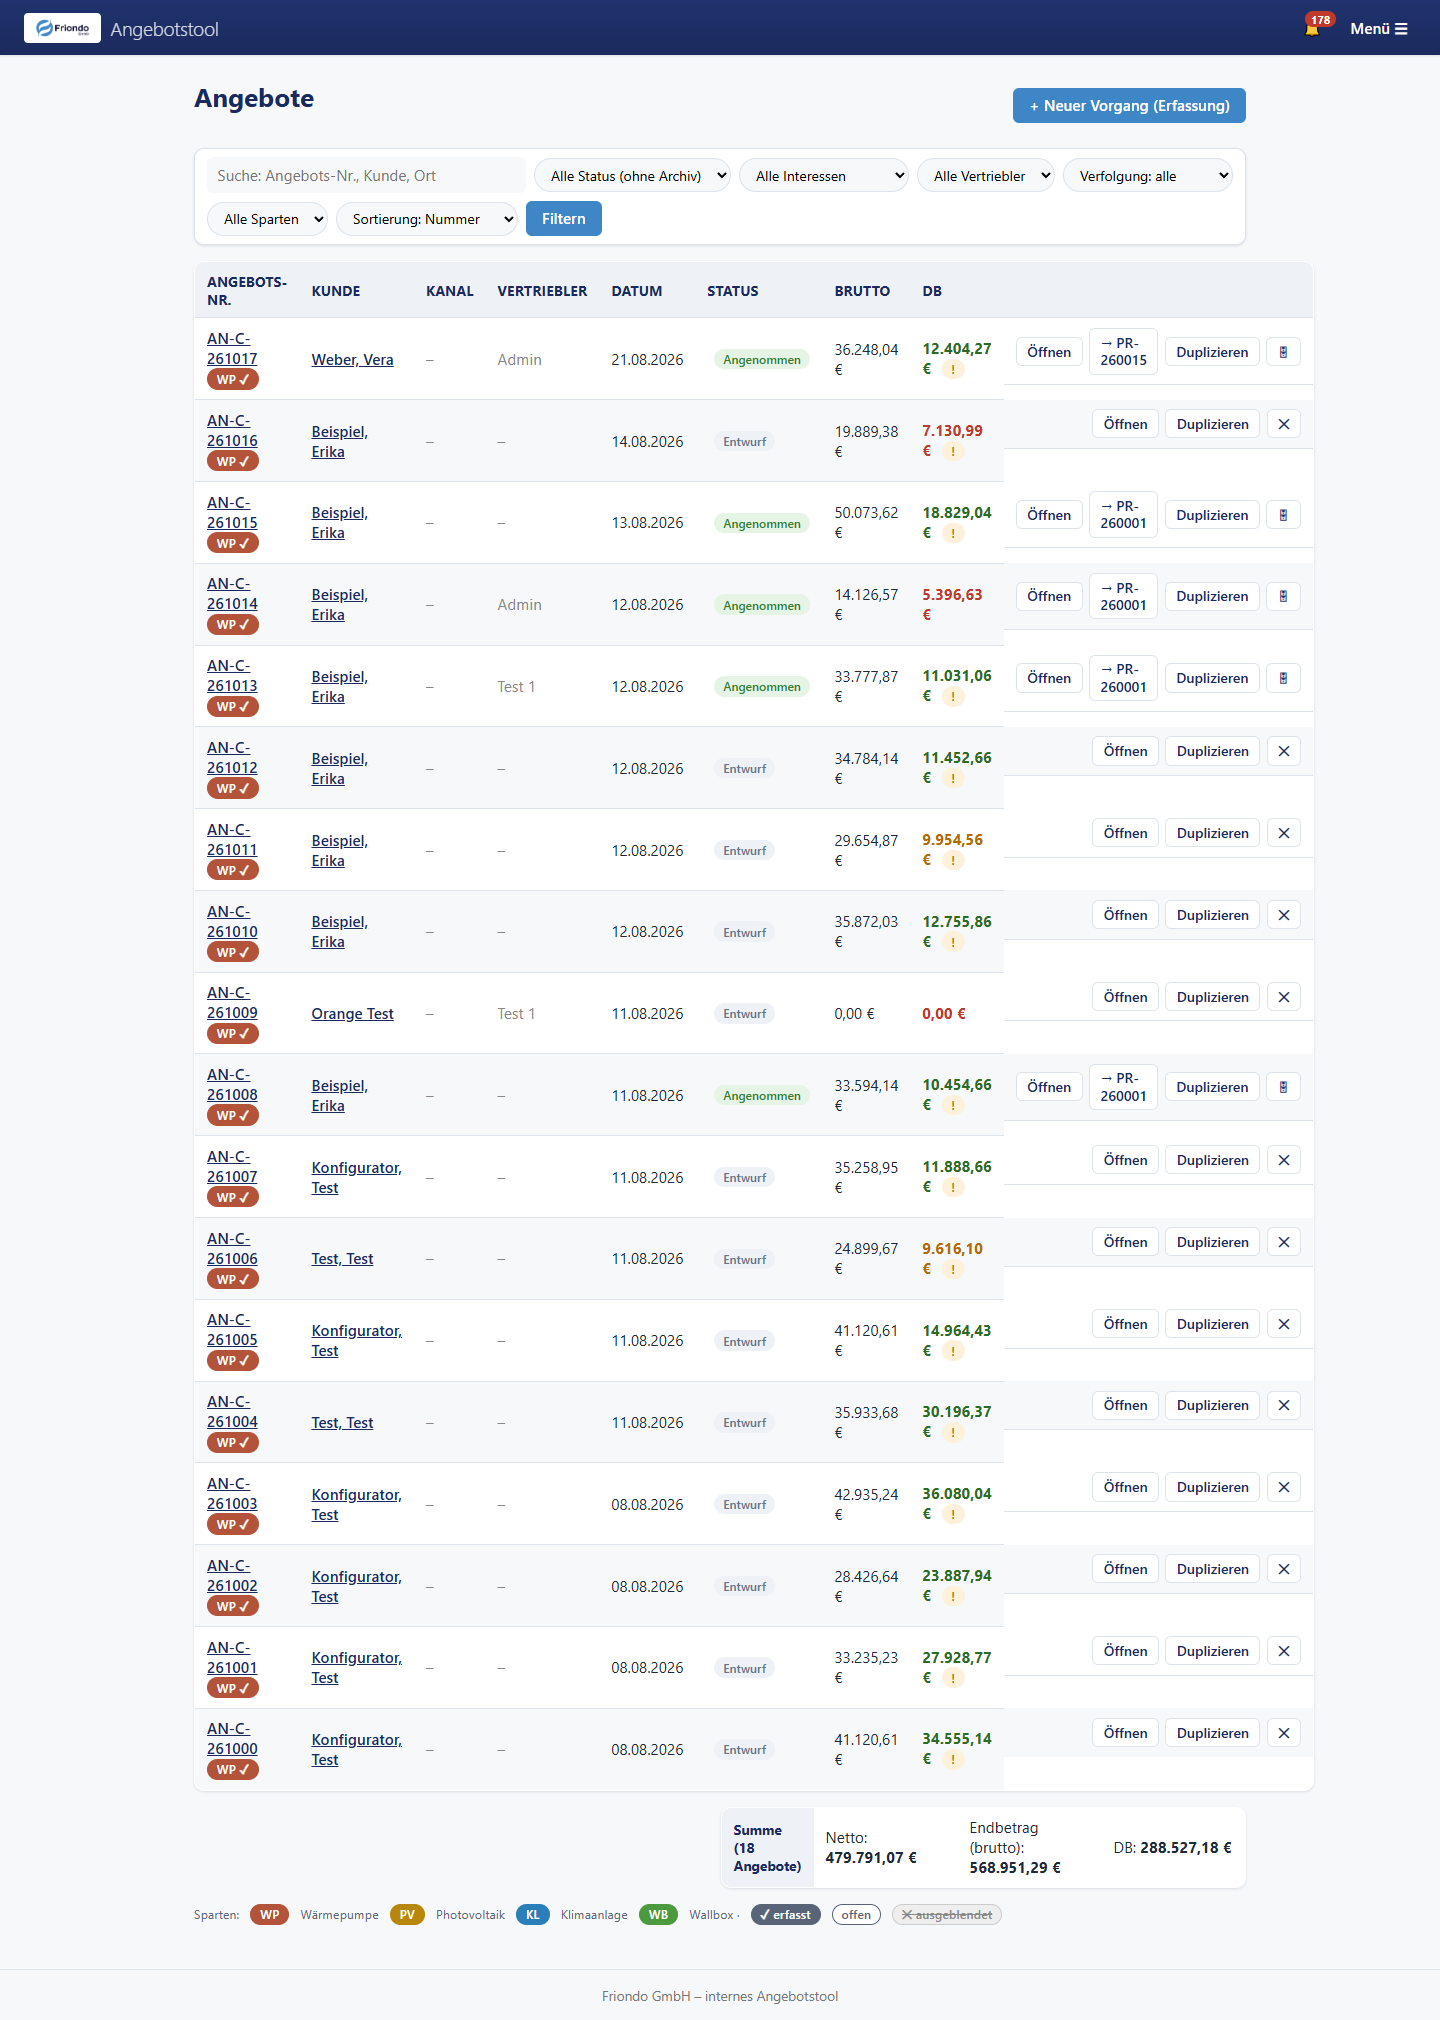
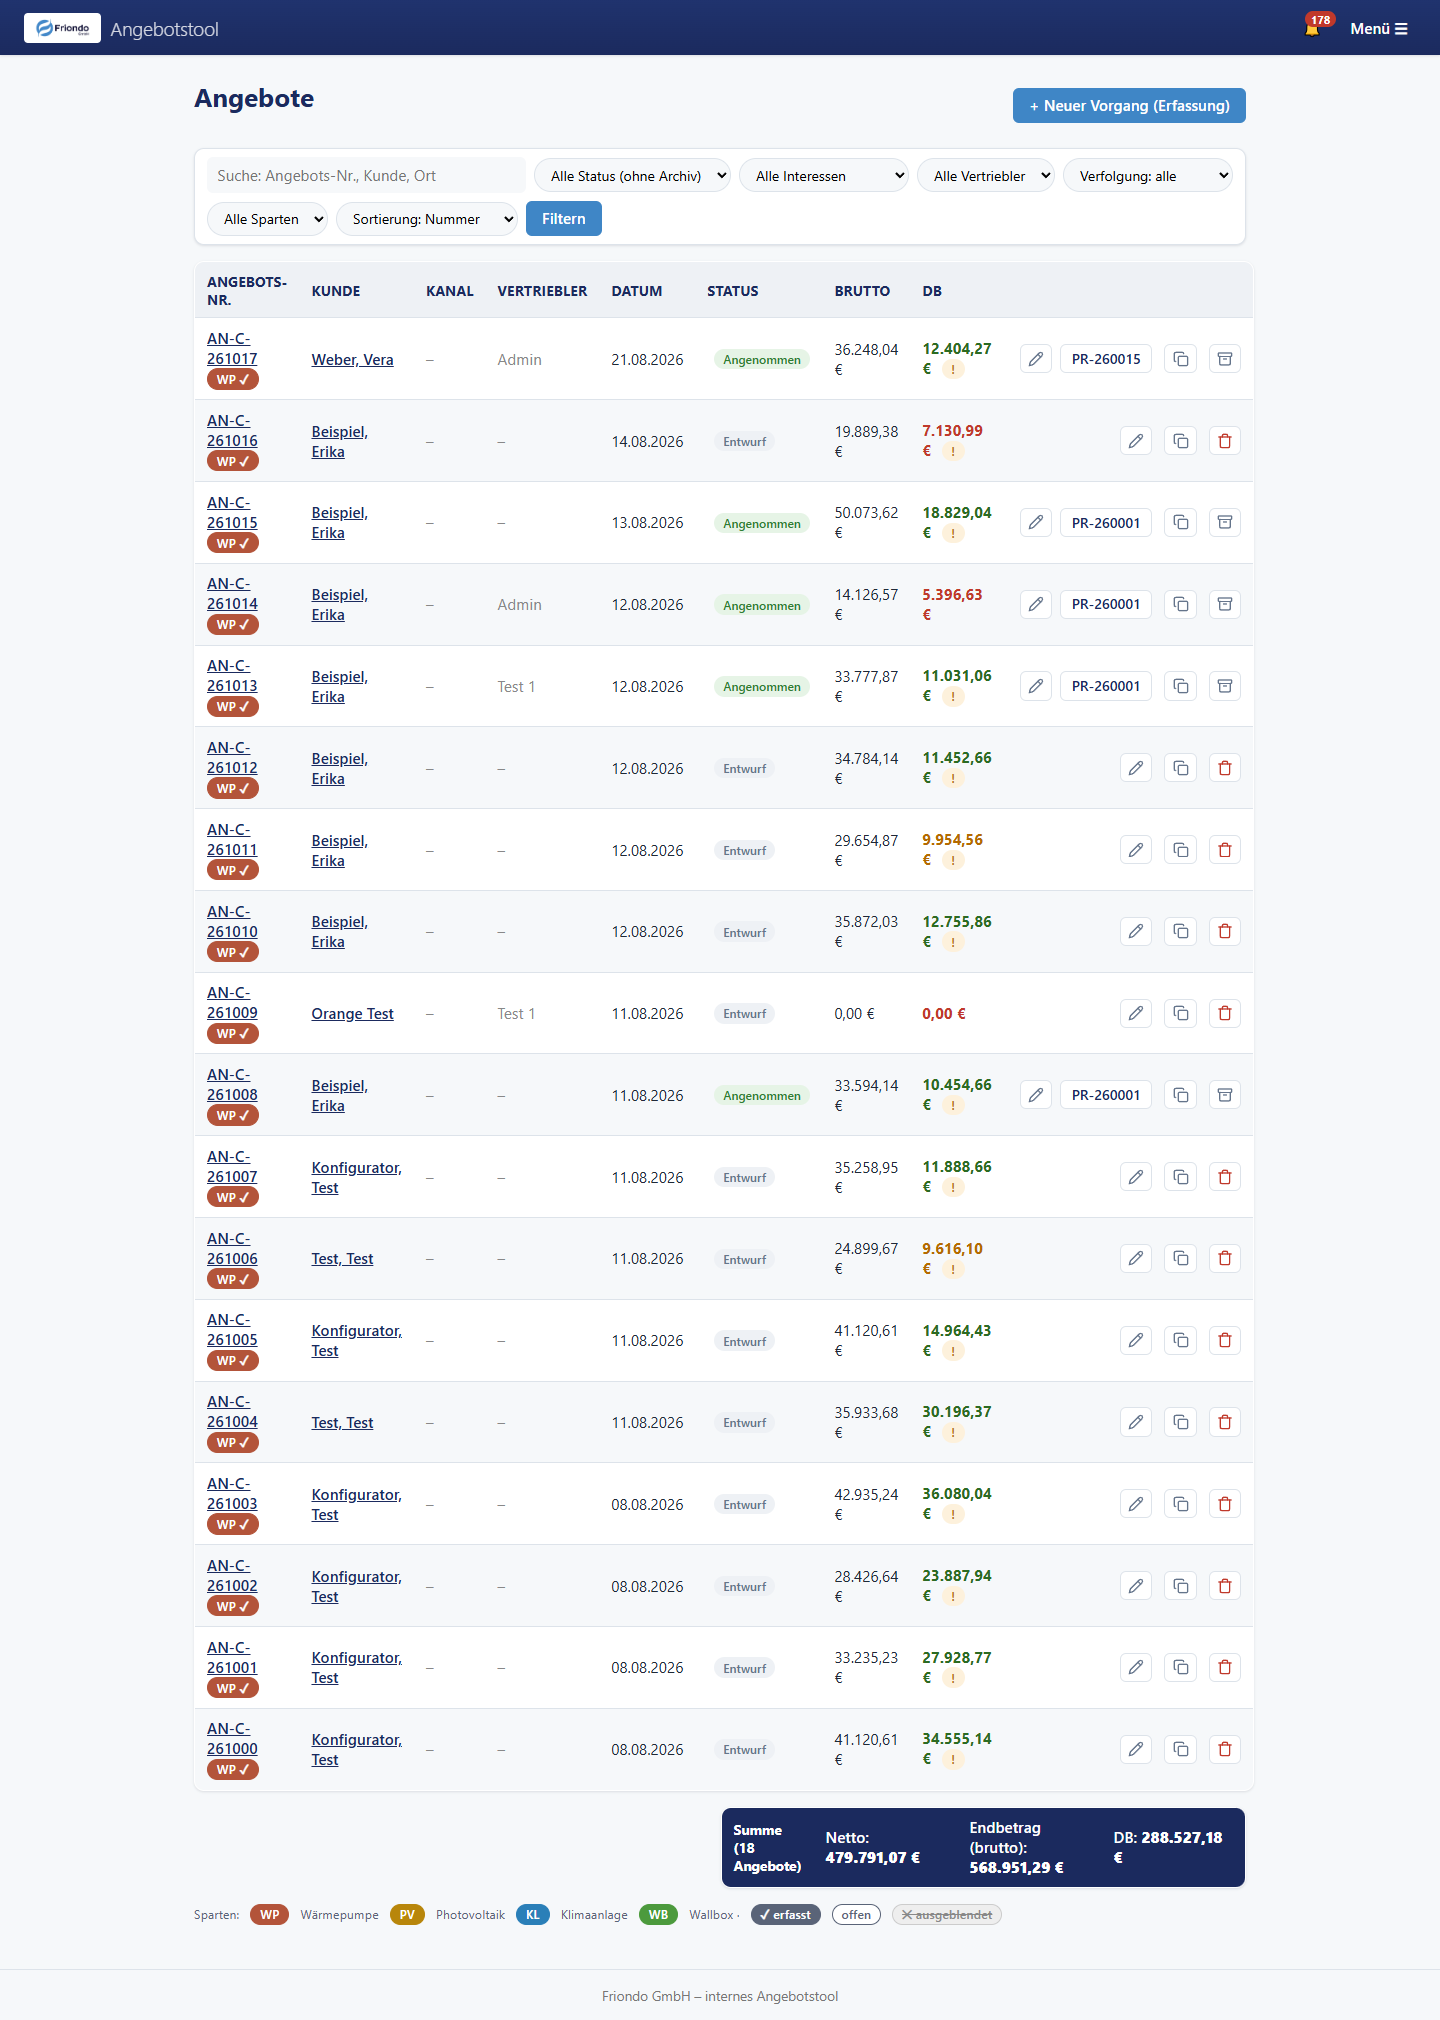
PLAN_V12 Phase 70: Portal, Startseite und Listen
Portal-Karten mit Hover-Lift und einheitlichen Demo-Badges (CSS);
Startseiten-Shortcuts und Auf-einen-Blick-Kacheln mit lokalen
SVG-Icons, Zahl gross, Beschriftung klein; dringliche Zahlen (fällige
Wiedervorlagen, Rabatt-Freigaben, SLA rot) über die Klasse dringend
statt Inline-Farben. Angebotsliste: Status über das zentrale
status_badge-Makro, Wiedervorlage- und Mail-Symbole als SVG,
Aktionsspalte als kompakte Icon-Buttons mit Tooltip (Öffnen/PDF,
Duplizieren, Löschen rot, Archivieren/Zurückholen), Summenzeile dunkel
abgesetzt, Leerzustand im neuen Stil. Erfassungsliste: Status-Badges,
Warn-/Notiz-Symbole als SVG, Icon-Aktionen. Dazu ein echter
Bestands-Bugfix: td.aktionen fiel durch display:flex aus dem
Tabellenlayout und stand seit v6 versetzt neben der Tabelle - jetzt
table-cell mit rechtsbündigen Inline-Buttons. Tabellen scrollen unter
1180 px intern. Suite 117/117.

diff --git a/app/templates/angebote/liste.html b/app/templates/angebote/liste.html
@@ -1,6 +1,8 @@
 {% extends "base.html" %}
 {% import "_interesse.html" as interesse_ui %}
 {% import "_sparten.html" as sparten_ui %}
+{% from "_komponenten.html" import status_badge %}
+{% from "_symbole.html" import symbol %}
 
 {% block titel %}Angebote – Friondo Angebotstool{% endblock %}
 
@@ -92,7 +94,7 @@
                 {% if mail_zaehler.get(a.id) %}
                     <a class="mail-abzeichen" href="/angebote/{{ a.id }}/mails"
                        title="{{ mail_zaehler[a.id] }} Antwort{{ 'en' if mail_zaehler[a.id] != 1 }} zur Angebots-Mail">
-                        ✉ {{ mail_zaehler[a.id] }}</a>
+                        {{ symbol('brief') }} {{ mail_zaehler[a.id] }}</a>
                 {% endif %}
             </td>
             <td><a href="/vorgaenge/zu-angebot/{{ a.id }}" title="Vorgangsakte öffnen">{{ kunden[a.kunde_id].anzeige_name if a.kunde_id in kunden else '?' }}</a>
@@ -101,11 +103,11 @@
             <td class="dezent">{% set vid = angebot_vertriebler.get(a.id) %}{{ vertriebler[vid].name if vid in vertriebler else '–' }}</td>
             <td>{{ a.datum.strftime('%d.%m.%Y') }}</td>
             {% set v = vorgaenge_map.get(a.vorgang_id) %}
-            <td><span class="abzeichen status-{{ a.status | lower | replace(' ', '-') | replace('(', '') | replace(')', '') }}">{{ a.status }}</span>
+            <td>{{ status_badge(a.status) }}
                 {% if v and v.verfolgung_ampel %}<span title="Verfolgung des Vorgangs: {{ v.verfolgung_ampel }}">{{ {'heiss': '🔥', 'warm': '🌤', 'kalt': '❄'}[v.verfolgung_ampel] }}</span>{% endif %}
                 {% if v and v.wiedervorlage_am %}
-                    <br><span class="{{ 'wv-faellig' if v.wiedervorlage_am <= heute else 'dezent' }}"
-                          title="Wiedervorlage des Vorgangs">↻ {{ v.wiedervorlage_am.strftime('%d.%m.%Y') }}</span>
+                    <br><span class="wv-datum {{ 'wv-faellig' if v.wiedervorlage_am <= heute }}"
+                          title="Wiedervorlage des Vorgangs">{{ symbol('wiedervorlage') }} {{ v.wiedervorlage_am.strftime('%d.%m.%Y') }}</span>
                 {% endif %}</td>
             <td class="rechts">{{ a.summen().brutto | euro }}</td>
             {% if not kalk_sichtbar %}
@@ -122,34 +124,38 @@
             {% endif %}
             <td class="aktionen">
                 {% if nur_lesend %}
-                    <a class="knopf klein zweitrangig" href="/angebote/{{ a.id }}/pdf" target="_blank">PDF</a>
+                    <a class="knopf symbol" href="/angebote/{{ a.id }}/pdf" target="_blank"
+                       title="Angebots-PDF anzeigen">{{ symbol('pdf') }}</a>
                 {% else %}
-                    <a class="knopf klein zweitrangig" href="/angebote/{{ a.id }}">Öffnen</a>
+                    <a class="knopf symbol" href="/angebote/{{ a.id }}"
+                       title="Angebot öffnen">{{ symbol('stift') }}</a>
                 {% endif %}
                 {% if projekt_modul_ok %}
                     {% if a.id in projekt_je_angebot %}
                         <a class="knopf klein zweitrangig" href="/projektierung/projekt/{{ projekt_je_angebot[a.id].id }}"
-                           title="Zur Projektakte">→ {{ projekt_je_angebot[a.id].nummer }}</a>
+                           title="Zur Projektakte">{{ projekt_je_angebot[a.id].nummer }}</a>
                     {% elif a.status == 'Angenommen' %}
                         <a class="knopf klein" href="/projektierung/angebot/{{ a.id }}/projekt"
                            title="Projekt/Gewerk aus diesem Auftrag anlegen">→ Projekt</a>
                     {% endif %}
                 {% endif %}
                 {% if not a.extern %}
-                <form method="post" action="/angebote/{{ a.id }}/duplizieren">
-                    <button class="knopf klein zweitrangig" type="submit">Duplizieren</button>
+                <form method="post" action="/angebote/{{ a.id }}/duplizieren" style="display:inline">
+                    <button class="knopf symbol" type="submit"
+                            title="Angebot duplizieren">{{ symbol('kopie') }}</button>
                 </form>
                 {% endif %}
                 {% if a.status == 'Entwurf' %}
-                <form method="post" action="/angebote/{{ a.id }}/loeschen"
+                <form method="post" action="/angebote/{{ a.id }}/loeschen" style="display:inline"
                       onsubmit="return confirm('Entwurf {{ a.nummer }} wirklich löschen?');">
-                    <button class="knopf klein zweitrangig" type="submit" title="Entwurf löschen">✕</button>
+                    <button class="knopf symbol gefaehrlich" type="submit"
+                            title="Entwurf löschen">{{ symbol('muell') }}</button>
                 </form>
                 {% else %}
-                <form method="post" action="/angebote/{{ a.id }}/archivieren">
-                    <button class="knopf klein zweitrangig" type="submit"
+                <form method="post" action="/angebote/{{ a.id }}/archivieren" style="display:inline">
+                    <button class="knopf symbol" type="submit"
                             title="{{ 'Aus dem Archiv zurückholen' if a.archiviert else 'Archivieren' }}">
-                        {{ '↩' if a.archiviert else '🗄' }}</button>
+                        {{ symbol('wiederherstellen' if a.archiviert else 'archiv') }}</button>
                 </form>
                 {% endif %}
             </td>
@@ -158,7 +164,7 @@
     </tbody>
 </table>
 <table class="tabelle zusammenfassung summenblock">
-    <tr>
+    <tr class="summenzeile">
         <th>Summe ({{ angebote | length }} Angebot{{ 'e' if angebote | length != 1 }})</th>
         <td class="rechts">Netto: <strong>{{ summen_gesamt.netto | euro }}</strong></td>
         <td class="rechts">Endbetrag (brutto): <strong>{{ summen_gesamt.endbetrag | euro }}</strong></td>
@@ -171,7 +177,8 @@ sind dort unbekannt und bleiben außen vor.</p>
 {% endif %}
 {{ sparten_ui.legende() }}
 {% else %}
-<p class="hinweis">Noch keine Angebote. Über eine <a href="/erfassung/neu">neue Erfassung</a>
-oder als manuelles Angebot über einen Kunden starten.</p>
+<div class="leer-zustand">Noch keine Angebote – über eine neue Erfassung
+oder als manuelles Angebot über einen Kunden starten.
+    <br><a class="knopf klein" href="/erfassung/neu">Neue Erfassung starten</a></div>
 {% endif %}
 {% endblock %}

diff --git a/app/templates/erfassungen/liste.html b/app/templates/erfassungen/liste.html
@@ -1,4 +1,6 @@
 {% extends "base.html" %}
+{% from "_komponenten.html" import status_badge %}
+{% from "_symbole.html" import symbol %}
 {% import "_interesse.html" as interesse_ui %}
 {% import "_sparten.html" as sparten_ui %}
 
@@ -63,10 +65,10 @@
                     <span class="abzeichen ep" title="Freitext wurde geändert, während der Vorgang bereits lief – Details im Änderungsprotokoll.">Freitext geändert</span>
                 {% endif %}
                 {% if e.id in fachhinweis_ids %}
-                    <span title="{{ fachhinweis_ids[e.id] }}">⚠</span>
+                    <span class="wv-faellig" title="{{ fachhinweis_ids[e.id] }}">{{ symbol('warnung') }}</span>
                 {% endif %}
                 {% if e.id in bemerkungen %}
-                    <span class="bemerkung-symbol" title="{{ bemerkungen[e.id] | truncate(300) }}">📝</span>
+                    <span class="bemerkung-symbol dezent" title="{{ bemerkungen[e.id] | truncate(300) }}">{{ symbol('notiz') }}</span>
                 {% endif %}
             </td>
             <td>{{ benutzer_map[e.benutzer_id].name if e.benutzer_id in benutzer_map else '?' }}</td>
@@ -77,15 +79,16 @@
                     <span class="ampel gruen">● Konfigurierbar</span>
                 {% endif %}
             </td>
-            <td><span class="abzeichen">{{ e.status }}</span></td>
+            <td>{{ status_badge(e.status) }}</td>
             <td>{% if e.angebot_id and e.angebot_id in angebote %}
                 <a href="/angebote/{{ e.angebot_id }}">{% if angebote[e.angebot_id].extern %}<span class="abzeichen">TAIFUN</span> {{ angebote[e.angebot_id].taifun_nummer }}{% else %}{{ angebote[e.angebot_id].nummer }}{% endif %}</a>
             {% endif %}</td>
             <td class="aktionen">
-                <a class="knopf klein zweitrangig" href="/erfassungen/{{ e.id }}">Öffnen</a>
+                <a class="knopf symbol" href="/erfassungen/{{ e.id }}"
+                   title="Erfassung öffnen">{{ symbol('stift') }}</a>
                 {% if e.status == 'In TAIFUN zu schreiben' %}
                     <a class="knopf klein" href="/erfassungen/{{ e.id }}/protokoll.pdf"
-                       target="_blank" title="Übergabezettel für TAIFUN">Protokoll-PDF</a>
+                       target="_blank" title="Übergabezettel für TAIFUN">{{ symbol('pdf') }} Protokoll</a>
                 {% endif %}
             </td>
         </tr>

diff --git a/app/templates/_angebotstool_kacheln.html b/app/templates/_angebotstool_kacheln.html
@@ -1,9 +1,12 @@
 {# Angebotstool-Kacheln (Phase 19, seit v9 auch im mittleren Startseiten-
-   Bereich eingebunden): drei Shortcuts + klickbare Statistik-Kacheln. #}
+   Bereich eingebunden): drei Shortcuts + klickbare Statistik-Kacheln.
+   v14 (PLAN_V12, Phase 70): Karten mit Icon, Zahl groß, Beschriftung
+   klein; fällige Zahlen rot über die Klasse "dringend". #}
+{% from "_symbole.html" import symbol %}
 <div class="kacheln start-shortcuts">
-    <a class="kachel" href="/leads">Leads VOT</a>
-    <a class="kachel" href="/erfassungen">Erfassungen</a>
-    <a class="kachel" href="/angebote">Angebote</a>
+    <a class="kachel" href="/leads"><span class="kachel-icon">{{ symbol('telefon') }}</span>Leads VOT</a>
+    <a class="kachel" href="/erfassungen"><span class="kachel-icon">{{ symbol('stift') }}</span>Erfassungen</a>
+    <a class="kachel" href="/angebote"><span class="kachel-icon">{{ symbol('pdf') }}</span>Angebote</a>
 </div>
 
 <h2>Auf einen Blick</h2>
@@ -27,15 +30,16 @@
     {% endif %}
     {% if rabatt_freigaben %}
     <a class="kachel stat" href="/angebote/rabatt-freigaben">
-        <span class="stat-zahl" style="color:#c0392b">{{ rabatt_freigaben }}</span>
+        <span class="stat-zahl dringend">{{ rabatt_freigaben }}</span>
         <span>Rabatt-Freigaben offen</span>
         <span class="dezent">Anfragen vom Außendienst</span>
     </a>
     {% endif %}
     {% if faellige %}
     <a class="kachel stat" href="/vorgaenge?verfolgung=faellig">
-        <span class="stat-zahl" style="color:#c0392b">{{ faellige }}</span>
-        Fällige Wiedervorlagen
+        <span class="stat-zahl dringend">{{ faellige }}</span>
+        <span>Fällige Wiedervorlagen</span>
+        <span class="dezent">{{ symbol('wiedervorlage') }} jetzt nachfassen</span>
     </a>
     {% endif %}
     <a class="kachel stat" href="/angebote?status=Versendet">

diff --git a/app/templates/index.html b/app/templates/index.html
@@ -18,7 +18,7 @@
         </h2>
         <div class="kacheln bereich-kacheln">
             <div class="kachel stat">
-                <span class="stat-zahl" {% if lead_kacheln.sla_rot %}style="color:#c0392b"{% endif %}>{{ lead_kacheln.neue }}</span>
+                <span class="stat-zahl {{ 'dringend' if lead_kacheln.sla_rot }}">{{ lead_kacheln.neue }}</span>
                 <span>Neue Leads</span>
                 <span class="dezent">{{ lead_kacheln.sla_rot }} × SLA rot</span>
             </div>
@@ -76,7 +76,7 @@
                 <span class="dezent">zu prüfen / in TAIFUN zu schreiben</span>
             </div>
             <div class="kachel stat">
-                <span class="stat-zahl" {% if faellige %}style="color:#c0392b"{% endif %}>{{ faellige }}</span>
+                <span class="stat-zahl {{ 'dringend' if faellige }}">{{ faellige }}</span>
                 <span>Fällige Wiedervorlagen</span>
             </div>
             <div class="kachel stat">
@@ -85,7 +85,7 @@
                 <span class="dezent">warten auf Antwort</span>
             </div>
             <div class="kachel stat">
-                <span class="stat-zahl" {% if rabatt_freigaben %}style="color:#c0392b"{% endif %}>{{ rabatt_freigaben }}</span>
+                <span class="stat-zahl {{ 'dringend' if rabatt_freigaben }}">{{ rabatt_freigaben }}</span>
                 <span>Rabatt-Freigaben offen</span>
                 <span class="dezent">Anfragen vom Außendienst</span>
             </div>

diff --git a/app/static/style.css b/app/static/style.css
@@ -2472,3 +2472,27 @@ tr[draggable="true"]:hover .griff { color: var(--friondo-blau); }
     letter-spacing: 0.05em;
     white-space: nowrap;
 }
+
+/* Phase 70: Listen + Startseiten-Feinschliff */
+.stat-zahl.dringend { color: var(--status-rot); }
+.aktionen { white-space: nowrap; }
+.aktionen .knopf { vertical-align: middle; }
+.tabelle tr.summenzeile th {
+    background: var(--friondo-dunkel);
+    color: #fff;
+    text-transform: none;
+    letter-spacing: 0;
+    border-bottom: none;
+}
+.kachel .kachel-icon { display: block; margin: 0 auto var(--a-1); }
+.wv-datum { white-space: nowrap; font-size: var(--t-s); color: var(--g-500); }
+.wv-datum.wv-faellig { color: var(--status-rot); font-weight: 600; }
+
+/* Bugfix (Bestand): td.aktionen war durch display:flex aus dem
+   Tabellenlayout gefallen und stand versetzt neben der Tabelle */
+td.aktionen {
+    display: table-cell;
+    text-align: right;
+}
+td.aktionen .knopf,
+td.aktionen form { display: inline-flex; vertical-align: middle; margin: 0 0 0 0.25rem; }

diff --git a/app/templates/_symbole.html b/app/templates/_symbole.html
@@ -45,6 +45,10 @@
         <path d="M20 10c0 4.99-5.54 10.19-7.4 11.8a1 1 0 0 1-1.2 0C9.54 20.19 4 14.99 4 10a8 8 0 0 1 16 0Z"/><circle cx="12" cy="10" r="3"/>
     {%- elif name == 'euro' -%}
         <path d="M4 10h12"/><path d="M4 14h9"/><path d="M19 6a7.7 7.7 0 0 0-5.2-2A7.9 7.9 0 0 0 6 12c0 4.4 3.5 8 7.8 8 2 0 3.8-.8 5.2-2"/>
+    {%- elif name == 'archiv' -%}
+        <rect width="20" height="5" x="2" y="3" rx="1"/><path d="M4 8v11a2 2 0 0 0 2 2h12a2 2 0 0 0 2-2V8"/><path d="M10 12h4"/>
+    {%- elif name == 'wiederherstellen' -%}
+        <rect width="20" height="5" x="2" y="3" rx="1"/><path d="M4 8v11a2 2 0 0 0 2 2h12a2 2 0 0 0 2-2V8"/><path d="m9 15 3-3 3 3"/><path d="M12 12v6"/>
     {%- else -%}
         <circle cx="12" cy="12" r="9"/>
     {%- endif -%}

diff --git a/PLAN_V12.md b/PLAN_V12.md
@@ -41,18 +41,18 @@ HARTE LEITPLANKEN für dieses Update:
       verspielten Animationen
 
 ## Phase 70 – Portal, Angebotstool-Startseite & Listen
-- [ ] Portal: die drei Karten auf das neue System heben (Titelgrößen,
+- [x] Portal: die drei Karten auf das neue System heben (Titelgrößen,
       Hover, Kachel-Optik), Coming-soon-Badges einheitlich
-- [ ] Angebotstool-Startseite: Shortcuts und „Auf einen Blick"-Kacheln
+- [x] Angebotstool-Startseite: Shortcuts und „Auf einen Blick"-Kacheln
       als Karten mit Icon, Zahl groß, Beschriftung klein; fällige
       Wiedervorlagen visuell dringlich (rot), aber nicht schreiend
-- [ ] Listen (Leads VOT, Erfassungen, Angebote, Warteschlange):
+- [x] Listen (Leads VOT, Erfassungen, Angebote, Warteschlange):
       einheitliche Filterleiste (Suchfeld + Filter-Chips statt verstreuter
       Dropdowns), Sticky-Tabellenkopf, Zebra + Hover, Status-Badges und
       Chips aus dem Baukasten, Beträge rechtsbündig, Aktions-Buttons
       als kompakte Icon-Buttons mit Tooltip; Summenzeile der
       Angebotsliste klar abgesetzt
-- [ ] Responsivität der ID-Ansichten bis Laptop-Breite prüfen
+- [x] Responsivität der ID-Ansichten bis Laptop-Breite prüfen
       (horizontales Scrollen nur innerhalb von Tabellen)
 
 ## Phase 71 – Vorgangsakte (Schwerpunkt „anschaulich")
